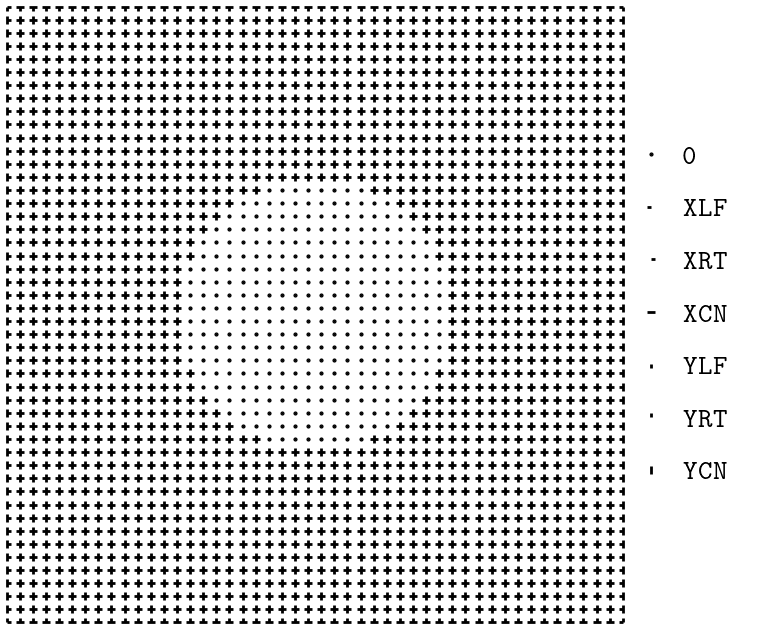
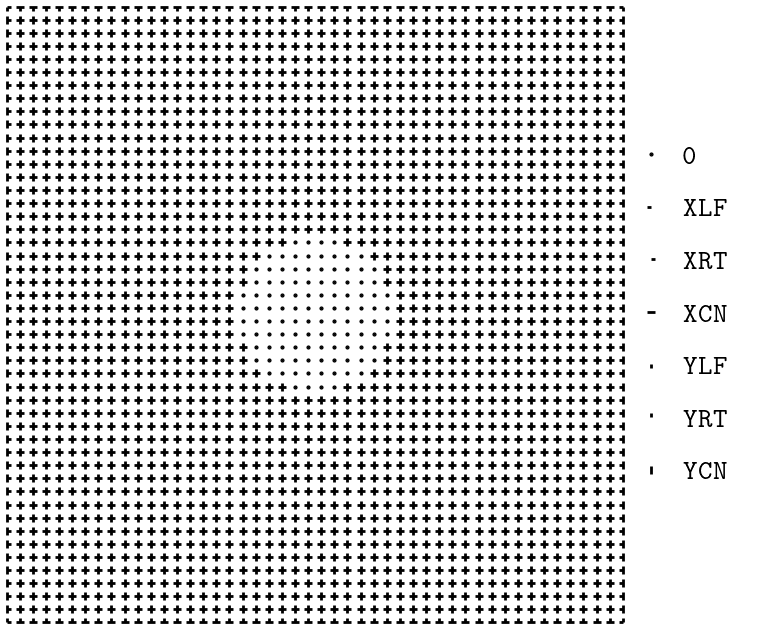
modified:   docs/imgs/poisson_eq_example.png 	modified:   docs/imgs/umap_example.png 	modified:   examples/test_poisson_eq.py

Changed region(s): [[0.2399, 0.3021, 0.5997, 0.725]]

diff --git a/examples/test_poisson_eq.py b/examples/test_poisson_eq.py
@@ -112,7 +112,7 @@ def main(args):
 	_umap[:, :ny] |= ltp.DIFFop("YRT")
 	_umap[:,1:  ] |= ltp.DIFFop("YLF")
 	# set up central body
-	r = 0.66**2
+	r = 0.25
 	_umap[xs**2 + ys**2 < r**2] = 0
 	_vmap[_umap == 0] = 0
 	
